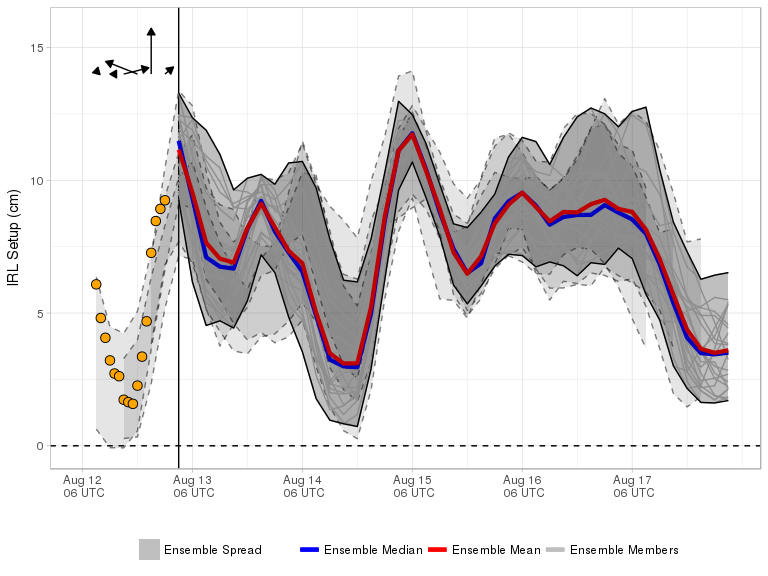
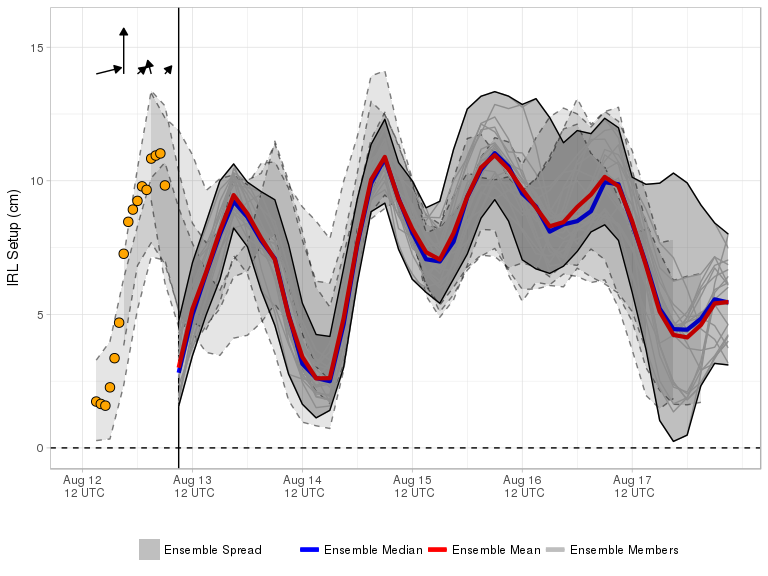
Forecast Update

diff --git a/docs/index.md b/docs/index.md
@@ -1,9 +1,9 @@
-Current Forecast 2018-08-12, Cycle 18UTC
+Current Forecast 2018-08-13, Cycle 00UTC
 ----------------------------------------
 
 [![](img/raw_setup.png)](https://fit-winds.github.io/IRLSetup/img/raw_setup.png)
 
-> Forecast valid 2018-08-12 20:24:51.
+> Forecast valid 2018-08-13 02:24:45.
 
 Explanation
 -----------
@@ -17,7 +17,7 @@ star), and Sebastian, FL (white star). In general, southerly (northerly)
 winds result in increased water elevation near Titusville (Sebastian)
 and positive (negative) setup.
 
-The current cycle 2018-08-12 18UTC 0.5° [Global Ensemble Forecast System
+The current cycle 2018-08-13 00UTC 0.5° [Global Ensemble Forecast System
 (GEFS)](https://www.ncdc.noaa.gov/data-access/model-data/model-datasets/global-ensemble-forecast-system-gefs)
 mean and median forecasts of setup are represented by the red and blue
 curves, respectively. Ensemble spread from the current and three
